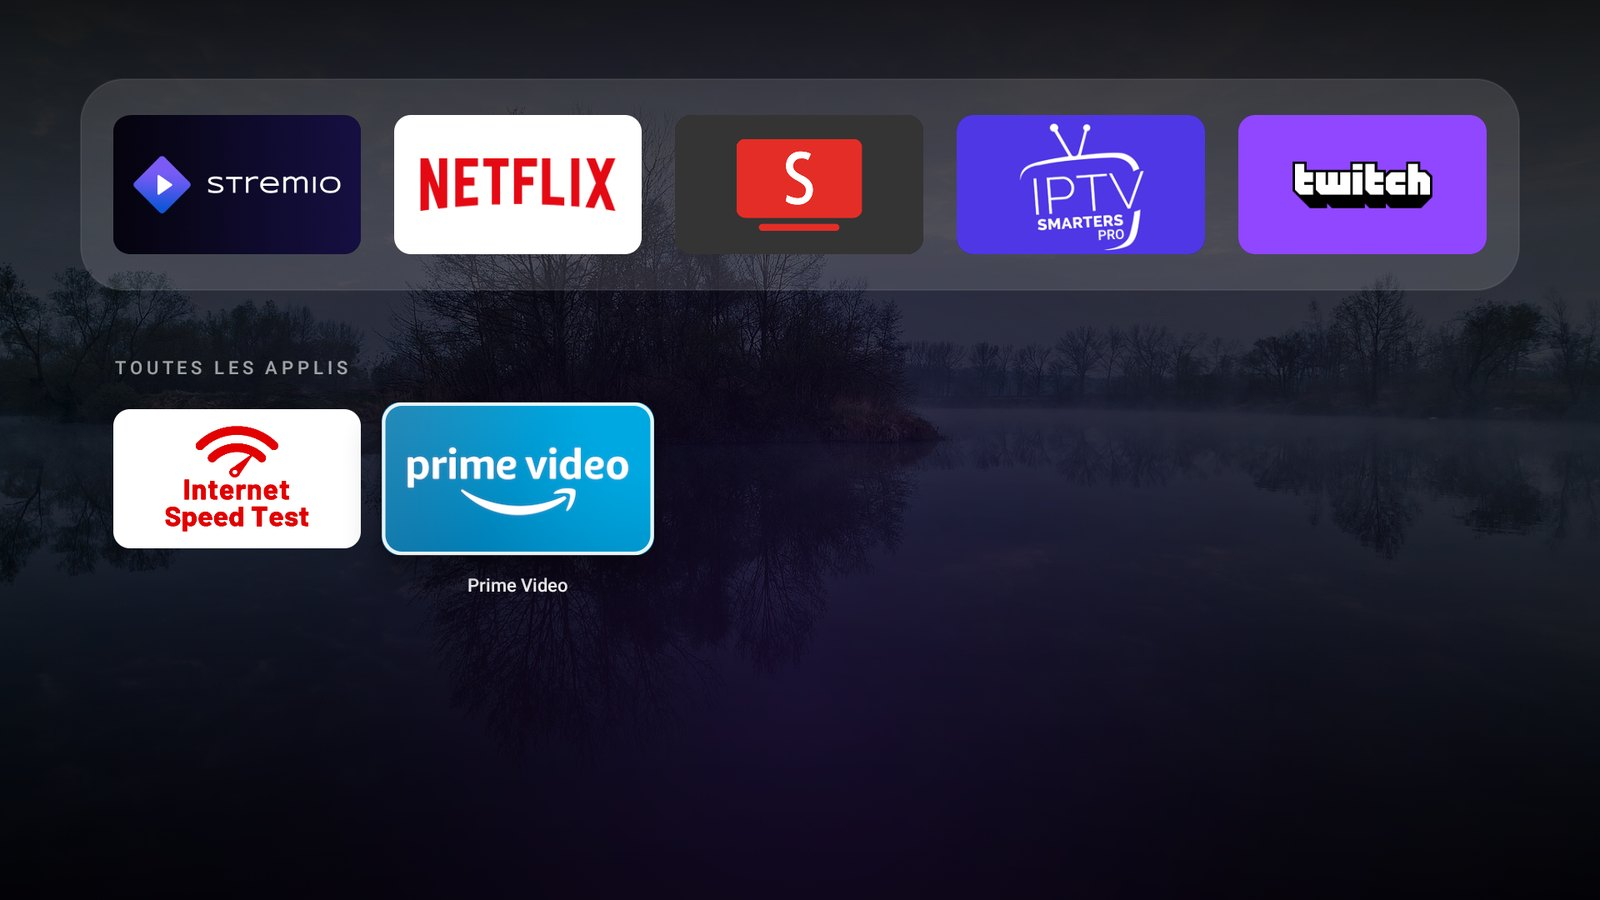
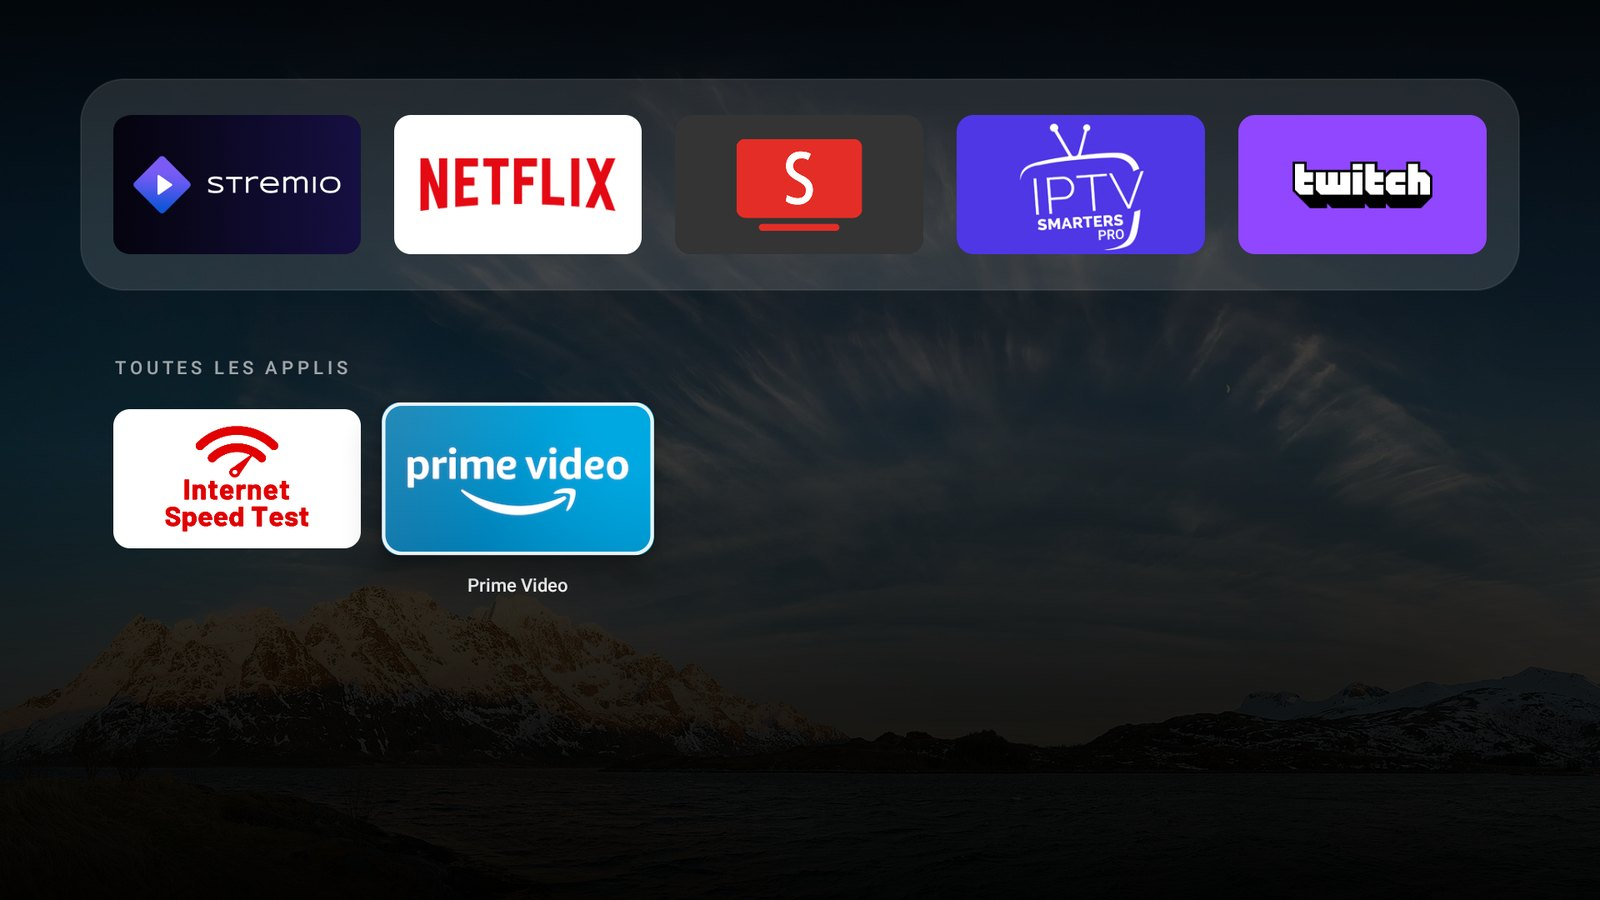
Accueil : police plus lisible, boutons ronds, sans lueur colorée
- Heure, date et infos en police normale et plus grande ; « Bon
  après-midi » entre 12 h et 18 h.
- Trois boutons ronds (Wi-Fi, fond d'écran suivant, réglages) à la place
  des pastilles ; le nom du Wi-Fi reste dans le panneau Réglages.
- Ligne météo/RAM sans ombre (rectangle gris sur Fire OS) ni mode
  d'affichage (dans le panneau).
- Plus de lueur colorée selon l'appli, qui teintait le fond d'écran.
- README : nouvelles captures, lien vers la branche Personal-Config.

diff --git a/launcher/src/com/lkn/firehome/MainActivity.java b/launcher/src/com/lkn/firehome/MainActivity.java
@@ -53,8 +53,8 @@ import java.util.Map;
 import java.util.Set;
 
 /**
- * Apple TV style home screen: clock top-left, pills top-right, the focused dock app's name over an
- * ambient glow, a dock of pinned apps, and every other app in a grid that scrolls up on Down.
+ * Apple TV style home screen: clock top-left, buttons top-right, the focused dock app's name, a
+ * dock of pinned apps, and every other app in a grid that scrolls up on Down.
  * Plain framework views only (no AndroidX), no background work; the only network use is Weather.
  * Fire TV fork: French UI, quick settings panel instead of TV inputs, Home button via HomeKeyService.
  */
@@ -82,25 +82,23 @@ public class MainActivity extends Activity {
     private LinearLayout content, dockRow;
     private FrameLayout hero;
     private LinearLayout grid;
-    private View glow;
     private ImageView wallBack, wallFront;
     private View gridShade, nightShade;
     private String shownPeriod;
+    private int wallSeq;
     private int wallIndex = -1;
     private long wallChangedAt;
     private final Handler handler = new Handler(Looper.getMainLooper());
     private final Runnable rotateWallpaper = this::nextWallpaper;
     static final long WALLPAPER_INTERVAL_MS = 10 * 60 * 1000;
-    private TextView greeting, clock, ampm, date, stats, title, wifiPill, appsLabel;
-    private int glowColor = 0xFF3A3A3A;
-    private ValueAnimator glowAnim;
+    private TextView greeting, clock, ampm, date, stats, title, appsLabel;
     private int lastFocusedId = View.NO_ID;
     private boolean firstShow = true;
     private int packageSeq;
     private PopupWindow panelPopup;
 
     private final BroadcastReceiver tick = new BroadcastReceiver() {
-        @Override public void onReceive(Context c, Intent i) { updateClock(); updateWifi(); updateStats(); followTimeOfDay(); }
+        @Override public void onReceive(Context c, Intent i) { updateClock(); updateStats(); followTimeOfDay(); }
     };
     private final BroadcastReceiver packages = new BroadcastReceiver() {
         @Override public void onReceive(Context c, Intent i) { buildApps(); }
@@ -138,7 +136,6 @@ public class MainActivity extends Activity {
         tf.addAction(WifiManager.NETWORK_STATE_CHANGED_ACTION);
         registerReceiver(tick, tf);
         updateClock();
-        updateWifi();
         updateStats();
         View last = lastFocusedId == View.NO_ID ? null : findViewById(lastFocusedId);
         if (last == null && !dockCards.isEmpty()) last = dockCards.get(0);
@@ -208,9 +205,6 @@ public class MainActivity extends Activity {
         nightShade.setAlpha(0f);
         root.addView(nightShade, new FrameLayout.LayoutParams(-1, -1));
 
-        glow = new View(this);
-        root.addView(glow, new FrameLayout.LayoutParams(-1, -1));
-        setGlow(glowColor);
 
         scroll = new HomeScrollView(this);
         scroll.setVerticalScrollBarEnabled(false);
@@ -276,7 +270,7 @@ public class MainActivity extends Activity {
 
         LinearLayout left = new LinearLayout(this);
         left.setOrientation(LinearLayout.VERTICAL);
-        greeting = text(10, "sans-serif-medium", 0xB3FFFFFF);
+        greeting = text(12, "sans-serif-medium", 0xE6FFFFFF);
         greeting.setLetterSpacing(0.25f);
         greeting.setSingleLine(true);
         greeting.setPadding(0, 0, dp(16), 0);
@@ -284,61 +278,65 @@ public class MainActivity extends Activity {
 
         LinearLayout clockRow = new LinearLayout(this);
         clockRow.setGravity(Gravity.BOTTOM);
-        clock = text(54, "sans-serif-thin", Color.WHITE);
+        clock = text(62, "sans-serif", Color.WHITE);
         clock.setIncludeFontPadding(false);
         clockRow.addView(clock);
         ampm = text(12, "sans-serif-light", 0xCCFFFFFF);
         clockRow.addView(ampm, llp(-2, -2, dp(6), 0, 0, dp(8)));
         left.addView(clockRow, llp(-2, -2, 0, dp(2), 0, dp(2)));
 
-        date = text(10, "sans-serif-medium", 0x99FFFFFF);
+        date = text(13, "sans-serif-medium", 0xE6FFFFFF);
         date.setSingleLine(true);
         date.setPadding(0, 0, dp(16), 0); // letterSpacing is not counted in the measured width
         date.setLetterSpacing(0.22f);
         left.addView(date);
 
-        // Weather · RAM · display mode, one quiet line under the date.
-        stats = text(11, "sans-serif", 0xB3FFFFFF);
+        // Weather · RAM, one line under the date (the display mode is in the settings panel).
+        stats = text(14, "sans-serif", 0xF2FFFFFF);
         stats.setSingleLine(true);
-        left.addView(stats, llp(-2, -2, 0, dp(10), 0, 0));
-        for (TextView t : new TextView[]{greeting, clock, ampm, date, stats}) t.setShadowLayer(dp(10), 0, dp(1), 0xB3000000);
-        header.addView(left, new FrameLayout.LayoutParams(dp(520), -2, Gravity.START | Gravity.TOP));
+        left.addView(stats, llp(-2, -2, 0, dp(16), 0, 0));
+        // No shadow on the stats line: on Fire OS it draws as a grey box behind the text.
+        for (TextView t : new TextView[]{greeting, clock, ampm, date}) t.setShadowLayer(dp(10), 0, dp(1), 0xB3000000);
+        header.addView(left, new FrameLayout.LayoutParams(dp(600), -2, Gravity.START | Gravity.TOP));
 
         LinearLayout right = new LinearLayout(this);
         right.setGravity(Gravity.CENTER_VERTICAL);
         right.setClipChildren(false);
-        wifiPill = pill("Wi-Fi", "◉");
-        wifiPill.setOnClickListener(v -> launch(new Intent(Settings.ACTION_WIFI_SETTINGS)));
-        TextView settings = pill("Réglages", "⚙");
+        View wifi = iconButton(R.drawable.ic_wifi);
+        wifi.setOnClickListener(v -> launch(new Intent(Settings.ACTION_WIFI_SETTINGS)));
+        View photo = iconButton(R.drawable.ic_image);
+        photo.setOnClickListener(v -> nextWallpaper());
+        View settings = iconButton(R.drawable.ic_settings);
         settings.setOnClickListener(v -> showPanel());
-        for (TextView p : new TextView[]{wifiPill, settings}) {
-            right.addView(p, llp(-2, dp(30), dp(10), 0, 0, 0));
+        for (View p : new View[]{wifi, photo, settings}) {
+            right.addView(p, llp(dp(34), dp(34), dp(12), 0, 0, 0));
             pills.add(p);
         }
         header.addView(right, new FrameLayout.LayoutParams(-2, -2, Gravity.END | Gravity.TOP));
         return header;
     }
 
-    private TextView pill(String label, String glyph) {
-        TextView p = text(11, "sans-serif-medium", 0xE6FFFFFF);
-        p.setText(glyph + "  " + label);
-        p.setGravity(Gravity.CENTER);
-        p.setPadding(dp(14), 0, dp(14), 0);
-        p.setFocusable(true);
-        p.setId(View.generateViewId());
+    /** Round frosted button with a white icon; turns white with a dark icon when focused. */
+    private View iconButton(int icon) {
+        ImageView b = new ImageView(this);
+        b.setImageResource(icon);
+        b.setScaleType(ImageView.ScaleType.CENTER_INSIDE);
+        b.setPadding(dp(8), dp(8), dp(8), dp(8));
+        b.setFocusable(true);
+        b.setId(View.generateViewId());
         GradientDrawable bg = new GradientDrawable();
-        bg.setCornerRadius(dp(15));
+        bg.setShape(GradientDrawable.OVAL);
         bg.setColor(0x66000000);
-        bg.setStroke(dp(1), 0x33FFFFFF);
-        p.setBackground(bg);
-        p.setOnFocusChangeListener((v, has) -> {
+        bg.setStroke(dp(1), 0x40FFFFFF);
+        b.setBackground(bg);
+        b.setOnFocusChangeListener((v, has) -> {
             bg.setColor(has ? 0xF2FFFFFF : 0x66000000);
-            ((TextView) v).setTextColor(has ? 0xFF111111 : 0xE6FFFFFF);
-            v.animate().scaleX(has ? 1.08f : 1f).scaleY(has ? 1.08f : 1f)
+            b.setColorFilter(has ? 0xFF111111 : 0xFFFFFFFF);
+            v.animate().scaleX(has ? 1.12f : 1f).scaleY(has ? 1.12f : 1f)
                     .setInterpolator(new OvershootInterpolator(2f)).setDuration(220).start();
-            if (has) { lastFocusedId = v.getId(); scroll.smoothScrollTo(0, 0); fadeGlow(1f); }
+            if (has) { lastFocusedId = v.getId(); scroll.smoothScrollTo(0, 0); shadeGrid(false); }
         });
-        return p;
+        return b;
     }
 
     // ---------------------------------------------------------------- apps
@@ -409,7 +407,7 @@ public class MainActivity extends Activity {
         appsLabel.setVisibility(rest.isEmpty() ? View.GONE : View.VISIBLE);
         wireFocus();
 
-        if (!dock.isEmpty()) { title.setText(dock.get(0).label); setGlow(dock.get(0).color); }
+        if (!dock.isEmpty()) title.setText(dock.get(0).label);
         View last = prevPill;
         if (prevPkg != null) for (View c : concat(dockCards, gridCards)) {
             if (prevPkg.equals(((App) c.getTag()).pkg)) last = c;
@@ -493,11 +491,10 @@ public class MainActivity extends Activity {
             if (inDock) {
                 title.setText(app.label);
                 title.animate().alpha(1f).setDuration(200).start();
-                animateGlow(app.color);
-                fadeGlow(1f);
+                shadeGrid(false);
                 scroll.smoothScrollTo(0, 0);
             } else {
-                fadeGlow(0.35f);
+                shadeGrid(true);
                 title.animate().alpha(0f).setDuration(200).start();
                 scrollToRow(box);
             }
@@ -652,16 +649,13 @@ public class MainActivity extends Activity {
     private void updateClock() {
         Calendar now = Calendar.getInstance();
         int h = now.get(Calendar.HOUR_OF_DAY);
-        greeting.setText(h >= 5 && h < 18 ? "BONJOUR" : "BONSOIR");
+        greeting.setText(h >= 5 && h < 12 ? "BONJOUR" : h >= 12 && h < 18 ? "BON APRÈS-MIDI" : "BONSOIR");
         boolean is24 = android.text.format.DateFormat.is24HourFormat(this);
         clock.setText(new SimpleDateFormat(is24 ? "H:mm" : "h:mm", Locale.getDefault()).format(now.getTime()));
         ampm.setText(is24 ? "" : (h < 12 ? "AM" : "PM"));
         date.setText(new SimpleDateFormat("EEEE d MMMM", Locale.FRANCE).format(now.getTime()).toUpperCase(Locale.getDefault()));
     }
 
-    private void updateWifi() {
-        wifiPill.setText("◉  " + wifiName());
-    }
 
     /** Runs every minute while home is showing; the weather fetch only fires every 30 minutes. */
     private void updateStats() {
@@ -671,7 +665,7 @@ public class MainActivity extends Activity {
         float gb = 1024f * 1024f * 1024f;
         String ram = String.format(Locale.FRANCE, "RAM %.1f / %.1f Go", (mi.totalMem - mi.availMem) / gb, mi.totalMem / gb);
         String weather = Weather.cached(this);
-        stats.setText((weather != null ? weather + "   ·   " : "") + ram + "   ·   " + displayMode());
+        stats.setText((weather != null ? weather + "   ·   " : "") + ram);
         Weather.refreshIfStale(this, w -> updateStats());
     }
 
@@ -688,30 +682,9 @@ public class MainActivity extends Activity {
         return name;
     }
 
-    // ---------------------------------------------------------------- glow
-
-    private void setGlow(int color) {
-        glowColor = color;
-        GradientDrawable g = new GradientDrawable();
-        g.setGradientType(GradientDrawable.RADIAL_GRADIENT);
-        g.setGradientCenter(0.5f, 0.78f);
-        g.setGradientRadius(getResources().getDisplayMetrics().widthPixels * 0.62f);
-        g.setColors(new int[]{withAlpha(color, 0.5f), withAlpha(color, 0.14f), Color.TRANSPARENT});
-        glow.setBackground(g);
-    }
-
-    private void animateGlow(int to) {
-        if (glowAnim != null) glowAnim.cancel();
-        glowAnim = ValueAnimator.ofObject(new ArgbEvaluator(), glowColor, to);
-        glowAnim.setDuration(450);
-        glowAnim.addUpdateListener(a -> setGlow((int) a.getAnimatedValue()));
-        glowAnim.start();
-    }
-
-    private void fadeGlow(float alpha) {
-        glow.animate().alpha(alpha).setDuration(300).start();
-        // The grid sits over the photo's busiest middle part, so dim it while browsing apps.
-        gridShade.animate().alpha(alpha < 1f ? 1f : 0f).setDuration(300).start();
+    /** The grid sits over the photo's busiest middle part, so dim the photo while browsing apps. */
+    private void shadeGrid(boolean on) {
+        gridShade.animate().alpha(on ? 1f : 0f).setDuration(300).start();
     }
 
     // ---------------------------------------------------------------- wallpaper
@@ -722,7 +695,10 @@ public class MainActivity extends Activity {
         return v;
     }
 
-    /** Decode the next photo of the current period off the main thread, then crossfade it in. */
+    /**
+     * Decode the next photo of the current period off the main thread, then crossfade it in. A
+     * newer call wins if two decodes finish out of order (the photo button can be pressed quickly).
+     */
     private void nextWallpaper() {
         handler.removeCallbacks(rotateWallpaper);
         shownPeriod = Wallpapers.period(this);
@@ -730,9 +706,10 @@ public class MainActivity extends Activity {
         if (name == null) return;
         wallIndex = 0;
         wallChangedAt = SystemClock.elapsedRealtime();
+        int seq = ++wallSeq;
         new Thread(() -> {
             Bitmap result = Wallpapers.decode(this, name);
-            runOnUiThread(() -> showWallpaper(result));
+            runOnUiThread(() -> { if (seq == wallSeq) showWallpaper(result); });
         }).start();
         scheduleWallpaper(WALLPAPER_INTERVAL_MS);
     }
@@ -768,7 +745,7 @@ public class MainActivity extends Activity {
         handler.postDelayed(rotateWallpaper, Math.max(1000, delay));
     }
 
-    /** Average the banner's vivid pixels, then push saturation so the glow reads as a colour. */
+    /** Average the banner's vivid pixels, then push saturation: the backdrop of icon-only tiles. */
     private int sampleColor(String pkg, Drawable d) {
         Integer cached = colorCache.get(pkg);
         if (cached != null) return cached;

diff --git a/README.md b/README.md
@@ -8,9 +8,9 @@ une commande et entièrement réversible.
 
 ## Ce que ça fait
 
-- **Un écran d'accueil à la place de celui d'Amazon** : horloge, météo, RAM et mode d'affichage, un
-  dock de tes applis préférées avec une lueur de la couleur de l'appli sélectionnée, toutes les
-  autres applis en grille, et 12 photos de nature qui changent toutes les 10 minutes : des photos
+- **Un écran d'accueil à la place de celui d'Amazon** : horloge, météo et RAM, trois boutons ronds
+  (Wi-Fi, fond d'écran suivant, réglages), un dock de tes applis préférées, toutes les autres
+  applis en grille, et 12 photos de nature qui changent toutes les 10 minutes : des photos
   lumineuses le jour, des ambiances de soirée à partir de 18 h, assombries la nuit. Zéro pub, zéro
   recommandation. Environ 70 Mo de RAM, contre 100 à 140 Mo pour l'accueil Amazon.
 - **Le bouton Home ramène sur cet accueil**, en environ 20 ms, y compris au démarrage et depuis
@@ -28,8 +28,13 @@ une commande et entièrement réversible.
 
 | | |
 |---|---|
-| ![Lueur Netflix](docs/screenshots/accueil-netflix.jpg) | ![Toutes les applis](docs/screenshots/grille.jpg) |
-| ![Panneau Réglages](docs/screenshots/panneau.jpg) | ![Lueur Twitch](docs/screenshots/accueil-twitch.jpg) |
+| ![Netflix sélectionné](docs/screenshots/accueil-netflix.jpg) | ![Toutes les applis](docs/screenshots/grille.jpg) |
+| ![Panneau Réglages](docs/screenshots/panneau.jpg) | ![Twitch sélectionné](docs/screenshots/accueil-twitch.jpg) |
+
+> **Envie de plus de personnalisation ?** La branche
+> [`Personal-Config`](https://github.com/lorisknodt/firetv-home/tree/Personal-Config) ajoute des fonds
+> d'écran propres à chaque appli (tes images à toi) et un sélecteur avec aperçus. Cette version-ci
+> reste la plus légère.
 
 ## Installation
 
@@ -182,6 +187,7 @@ absent est simplement ignoré.
   Fire OS.
 - Fonds d'écran : Wikimedia Commons, licences CC, voir
   [`launcher/WALLPAPER-CREDITS.md`](launcher/WALLPAPER-CREDITS.md).
+- Icônes : [Material Icons](https://fonts.google.com/icons) de Google (Apache 2.0).
 - Météo : [Open-Meteo](https://open-meteo.com). DNS : [AdGuard DNS](https://adguard-dns.io).
 
 Licence MIT, voir [LICENSE](LICENSE).
